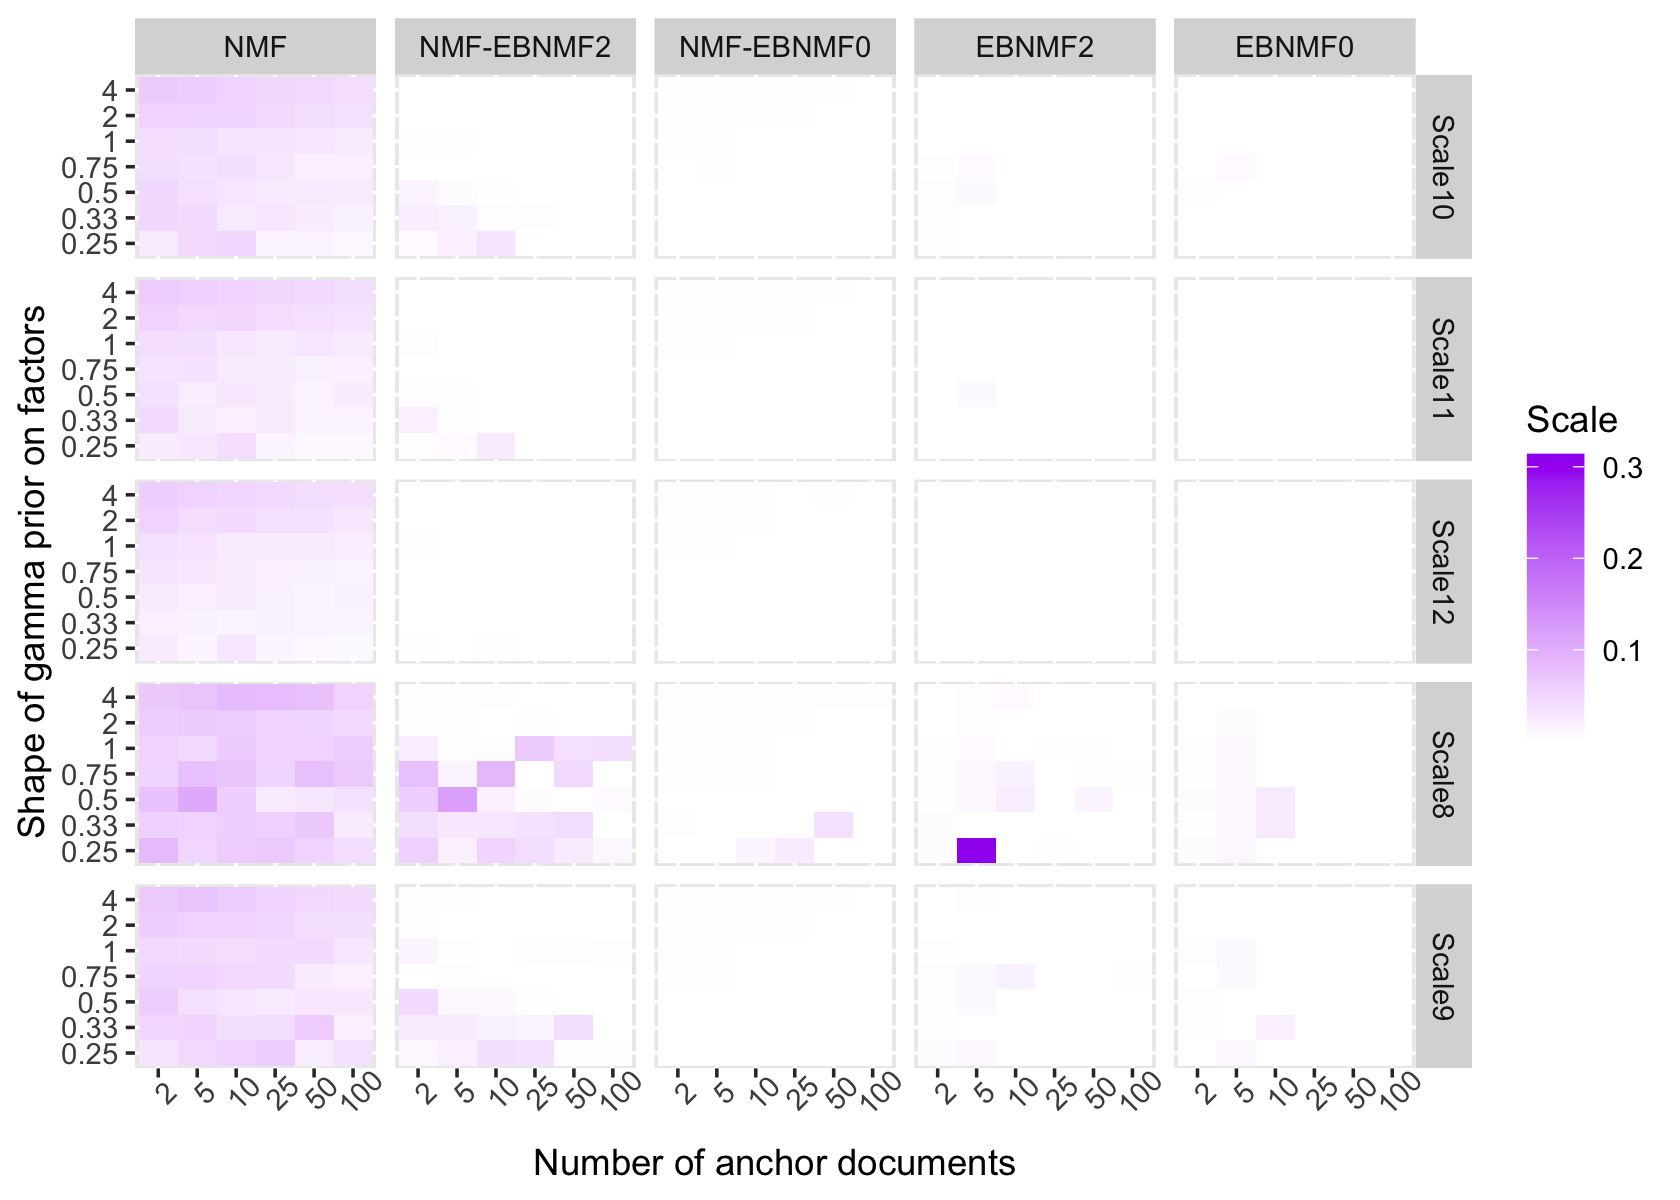
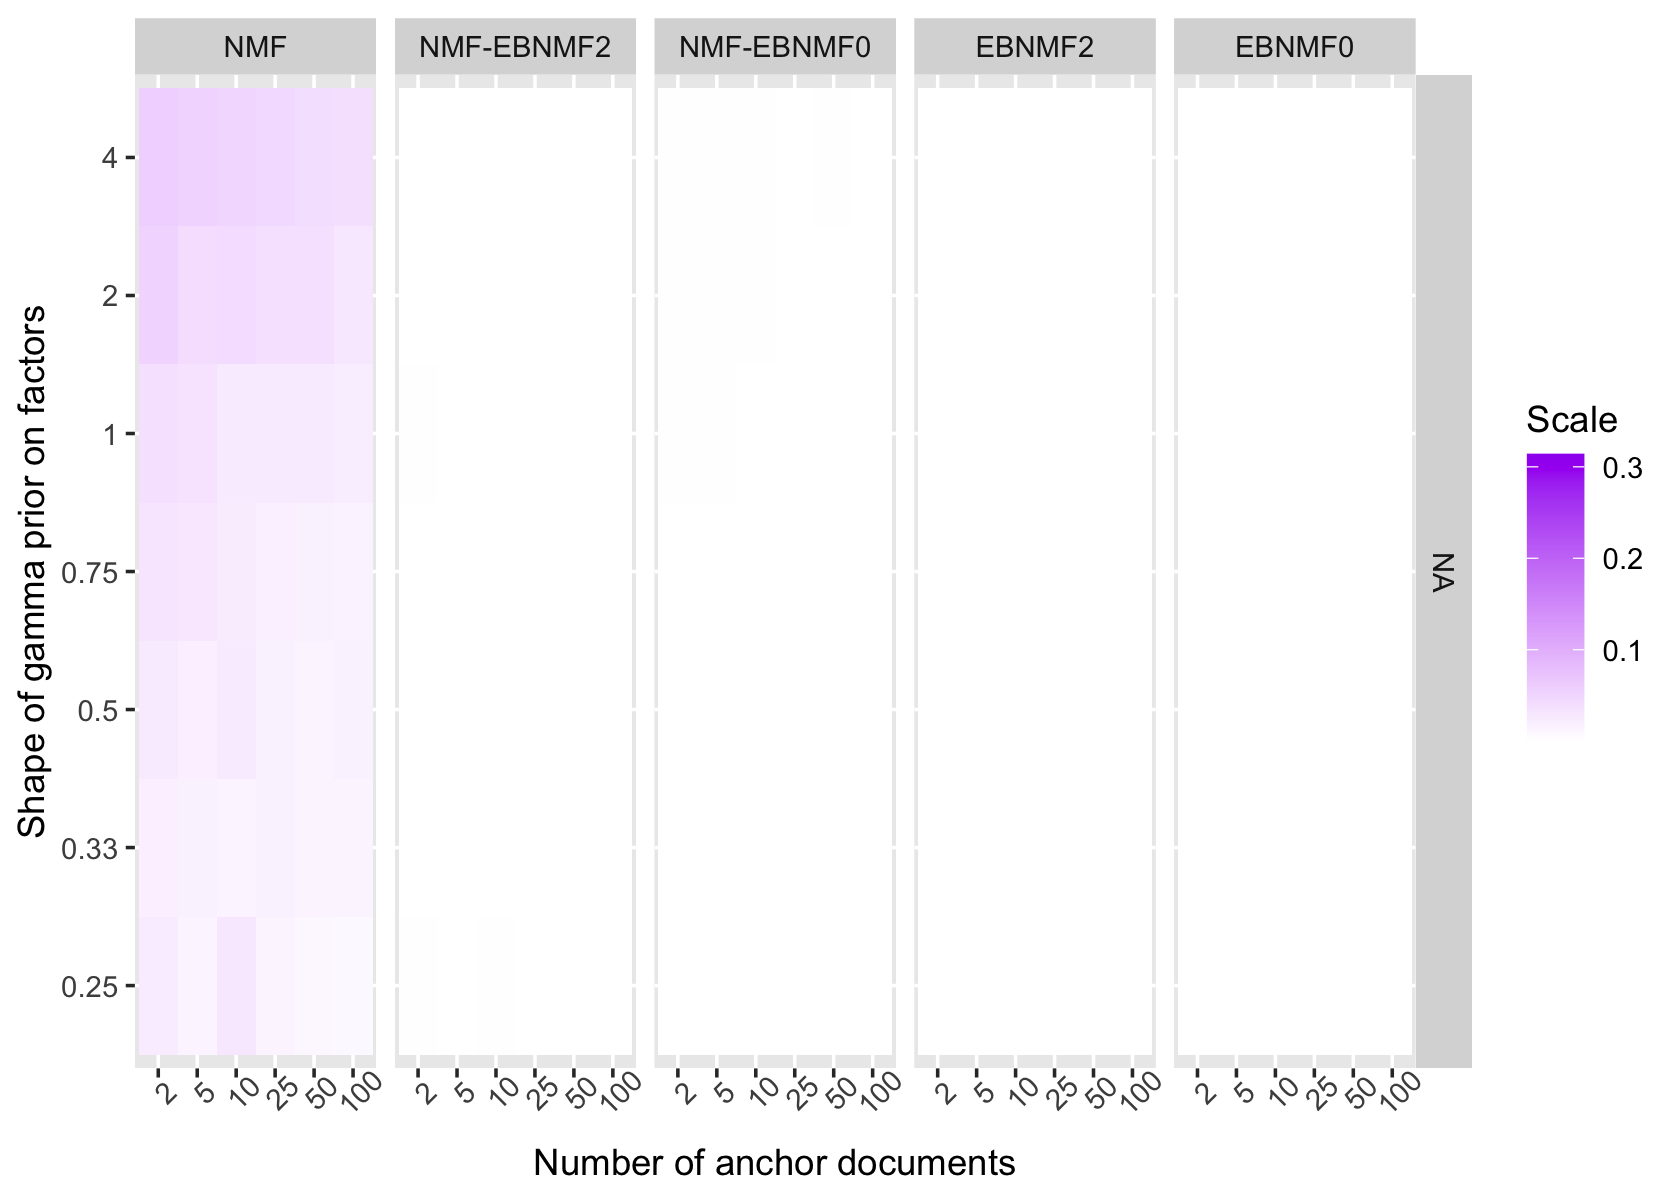
Build site.

diff --git a/docs/sim_scenario3.html b/docs/sim_scenario3.html
@@ -440,15 +440,15 @@ project makes it easier to run your code on other machines.</p>
 <div class="panel panel-default">
 <div class="panel-heading">
 <p class="panel-title">
-<a data-toggle="collapse" data-parent="#workflowr-checks" href="#strongRepositoryversionstrongahrefhttpsgithubcomwillwerscheidebnmfpapertree46ef6087ef4cca37c2c46ca9ebc57868bcd54c0btargetblank46ef608a">
+<a data-toggle="collapse" data-parent="#workflowr-checks" href="#strongRepositoryversionstrongahrefhttpsgithubcomwillwerscheidebnmfpapertree8d0bfc6ae7117e3f9e2a69ec0f44585a07b49e6dtargetblank8d0bfc6a">
 <span class="glyphicon glyphicon-ok text-success"
 aria-hidden="true"></span> <strong>Repository version:</strong>
-<a href="https://github.com/willwerscheid/ebnmf-paper/tree/46ef6087ef4cca37c2c46ca9ebc57868bcd54c0b" target="_blank">46ef608</a>
+<a href="https://github.com/willwerscheid/ebnmf-paper/tree/8d0bfc6ae7117e3f9e2a69ec0f44585a07b49e6d" target="_blank">8d0bfc6</a>
 </a>
 </p>
 </div>
 <div
[2 lines of base64/hex data omitted]
 class="panel-collapse collapse">
 <div class="panel-body">
 <p>
@@ -458,7 +458,7 @@ reproducibility.
 </p>
 <p>
 The results in this page were generated with repository version
-<a href="https://github.com/willwerscheid/ebnmf-paper/tree/46ef6087ef4cca37c2c46ca9ebc57868bcd54c0b" target="_blank">46ef608</a>.
+<a href="https://github.com/willwerscheid/ebnmf-paper/tree/8d0bfc6ae7117e3f9e2a69ec0f44585a07b49e6d" target="_blank">8d0bfc6</a>.
 See the <em>Past versions</em> tab to see a history of the changes made
 to the R Markdown and HTML files.
 </p>
@@ -617,6 +617,40 @@ Message
 </tr>
 </thead>
 <tbody>
+<tr>
+<td>
+Rmd
+</td>
+<td>
+<a href="https://github.com/willwerscheid/ebnmf-paper/blob/8d0bfc6ae7117e3f9e2a69ec0f44585a07b49e6d/analysis/sim_scenario3.Rmd" target="_blank">8d0bfc6</a>
+</td>
+<td>
+Jason Willwerscheid
+</td>
+<td>
+2025-08-15
+</td>
+<td>
+workflowr::wflow_publish("analysis/sim_scenario3.Rmd")
+</td>
+</tr>
+<tr>
+<td>
+html
+</td>
+<td>
+<a href="https://rawcdn.githack.com/willwerscheid/ebnmf-paper/666fd1607490880d592df24145835c85d3500059/docs/sim_scenario3.html" target="_blank">666fd16</a>
+</td>
+<td>
+Jason Willwerscheid
+</td>
+<td>
+2025-08-15
+</td>
+<td>
+Build site.
+</td>
+</tr>
 <tr>
 <td>
 Rmd
@@ -1026,6 +1060,17 @@ Date
 <tbody>
 <tr>
 <td>
+<a href="https://github.com/willwerscheid/ebnmf-paper/blob/666fd1607490880d592df24145835c85d3500059/docs/figure/sim_scenario3.Rmd/unnamed-chunk-6-1.png" target="_blank">666fd16</a>
+</td>
+<td>
+Jason Willwerscheid
+</td>
+<td>
+2025-08-15
+</td>
+</tr>
+<tr>
+<td>
 <a href="https://github.com/willwerscheid/ebnmf-paper/blob/14ce12d6d98ac3b5b767f1a4c86fc767e1319394/docs/figure/sim_scenario3.Rmd/unnamed-chunk-6-1.png" target="_blank">14ce12d</a>
 </td>
 <td>
@@ -1082,6 +1127,17 @@ Date
 <tbody>
 <tr>
 <td>
+<a href="https://github.com/willwerscheid/ebnmf-paper/blob/666fd1607490880d592df24145835c85d3500059/docs/figure/sim_scenario3.Rmd/unnamed-chunk-7-1.png" target="_blank">666fd16</a>
+</td>
+<td>
+Jason Willwerscheid
+</td>
+<td>
+2025-08-15
+</td>
+</tr>
+<tr>
+<td>
 <a href="https://github.com/willwerscheid/ebnmf-paper/blob/14ce12d6d98ac3b5b767f1a4c86fc767e1319394/docs/figure/sim_scenario3.Rmd/unnamed-chunk-7-1.png" target="_blank">14ce12d</a>
 </td>
 <td>
@@ -1135,6 +1191,17 @@ Date
 <tbody>
 <tr>
 <td>
+<a href="https://github.com/willwerscheid/ebnmf-paper/blob/666fd1607490880d592df24145835c85d3500059/docs/figure/sim_scenario3.Rmd/unnamed-chunk-8-1.png" target="_blank">666fd16</a>
+</td>
+<td>
+Jason Willwerscheid
+</td>
+<td>
+2025-08-15
+</td>
+</tr>
+<tr>
+<td>
 <a href="https://github.com/willwerscheid/ebnmf-paper/blob/14ce12d6d98ac3b5b767f1a4c86fc767e1319394/docs/figure/sim_scenario3.Rmd/unnamed-chunk-8-1.png" target="_blank">14ce12d</a>
 </td>
 <td>
@@ -1154,7 +1221,8 @@ the top row:</p>
 <pre class="r"><code>plot_df &lt;- all_res |&gt; filter(Kmax == 12, str_starts(metric_type, &quot;Scale&quot;)) |&gt;
   mutate(n_anchor_docs = factor(n_anchor_docs, ), 
          shape = factor(shape),
-         method = factor(method, levels = c(&quot;NMF&quot;, &quot;NMF-EBNMF2&quot;, &quot;NMF-EBNMF0&quot;, &quot;EBNMF2&quot;, &quot;EBNMF0&quot;)))
+         method = factor(method, levels = c(&quot;NMF&quot;, &quot;NMF-EBNMF2&quot;, &quot;NMF-EBNMF0&quot;, &quot;EBNMF2&quot;, &quot;EBNMF0&quot;))) |&gt;
+  mutate(metric_type = factor(metric_type, levels = paste(&quot;Scale&quot;, 8:12)))
 ggplot(plot_df, aes(x = n_anchor_docs, y = shape, fill = metric_val)) +
   geom_tile() +
   scale_fill_gradient(low = &quot;white&quot;, high = &quot;purple&quot;, na.value = &quot;white&quot;) +
@@ -1184,6 +1252,17 @@ Date
 </tr>
 </thead>
 <tbody>
+<tr>
+<td>
+<a href="https://github.com/willwerscheid/ebnmf-paper/blob/666fd1607490880d592df24145835c85d3500059/docs/figure/sim_scenario3.Rmd/unnamed-chunk-9-1.png" target="_blank">666fd16</a>
+</td>
+<td>
+Jason Willwerscheid
+</td>
+<td>
+2025-08-15
+</td>
+</tr>
 <tr>
 <td>
 <a href="https://github.com/willwerscheid/ebnmf-paper/blob/14ce12d6d98ac3b5b767f1a4c86fc767e1319394/docs/figure/sim_scenario3.Rmd/unnamed-chunk-9-1.png" target="_blank">14ce12d</a>
@@ -1236,6 +1315,17 @@ Date
 </tr>
 </thead>
 <tbody>
+<tr>
+<td>
+<a href="https://github.com/willwerscheid/ebnmf-paper/blob/666fd1607490880d592df24145835c85d3500059/docs/figure/sim_scenario3.Rmd/unnamed-chunk-10-1.png" target="_blank">666fd16</a>
+</td>
+<td>
+Jason Willwerscheid
+</td>
+<td>
+2025-08-15
+</td>
+</tr>
 <tr>
 <td>
 <a href="https://github.com/willwerscheid/ebnmf-paper/blob/14ce12d6d98ac3b5b767f1a4c86fc767e1319394/docs/figure/sim_scenario3.Rmd/unnamed-chunk-10-1.png" target="_blank">14ce12d</a>
